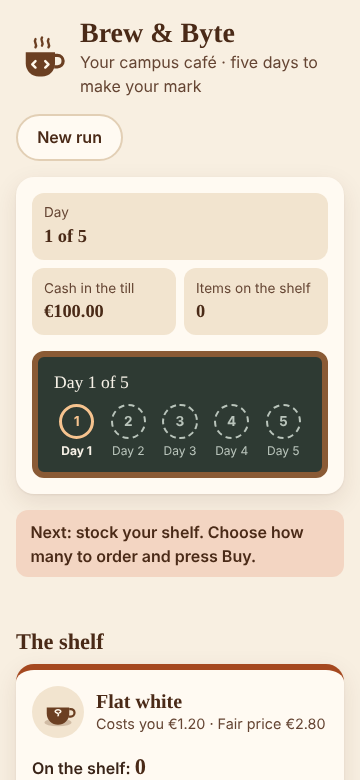
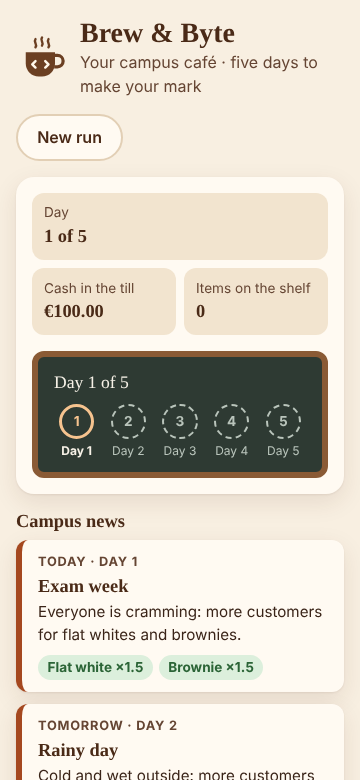
docs(dashboard): explain the results dashboard, refresh screenshots for all features
Documents the dashboard (rules, proposed decisions for Ethan to confirm, the
explainer section, the test map), renumbers the explainer sections, updates the
test counts, and regenerates the README screenshots so they show campus events,
an upgrade, the dashboard and the high scores.

Feature owner: Ethan (built at the team's request; for Ethan to review)

Claude-Session: https://claude.ai/code/session_01TnaFkgAnGYJTaMZ5hbx1Ax

Changed region(s): [[0.0306, 0.6462, 0.9778, 1.0]]

diff --git a/e2e/screenshots.spec.ts b/e2e/screenshots.spec.ts
@@ -5,11 +5,18 @@ import { buy, freshStart, openForTheDay, setPrice } from "./helpers";
 
 const DIR = "docs/screenshots";
 
+/** A fixed week of campus events, so the screenshots always show the same news. */
+const WEEK = ["exam-week", "rainy-day", "ordinary-day", "open-day", "big-match"];
+
 async function playTwoDays(page: Page): Promise<void> {
+  await page.getByRole("button", { name: /^Buy Student Loyalty Program/ }).click();
   await buy(page, "Flat white", 15);
   await buy(page, "Toastie", 8);
   await buy(page, "Brownie", 12);
   await openForTheDay(page, 1);
+  // Restock for tomorrow: a rainy day brings extra toastie customers.
+  await buy(page, "Toastie", 17);
+  await buy(page, "Flat white", 8);
   await setPrice(page, "Flat white", "3.40");
   await openForTheDay(page, 2);
 }
@@ -22,7 +29,7 @@ for (const [label, viewport] of [
     test.use({ viewport });
 
     test(`${label} screenshots`, async ({ page }) => {
-      await freshStart(page);
+      await freshStart(page, WEEK);
       await page.screenshot({ path: `${DIR}/${label}-1-start.png`, fullPage: label === "desktop" });
 
       await playTwoDays(page);
@@ -47,7 +54,7 @@ test.describe("dark", () => {
   test.use({ colorScheme: "dark", viewport: { width: 1280, height: 900 } });
 
   test("dark theme screenshot", async ({ page }) => {
-    await freshStart(page);
+    await freshStart(page, WEEK);
     await playTwoDays(page);
     await page.screenshot({ path: `${DIR}/desktop-5-dark.png`, fullPage: true });
   });

diff --git a/CONTRIBUTIONS.md b/CONTRIBUTIONS.md
@@ -8,8 +8,9 @@ The base game (buying, pricing, trading, saving, the five-day run and its tests)
 
 Each team member proposed, directed, tested and merged one improvement. Viktoria built the upgrades shop on her own branch from her own GitHub account (with help from the Codex AI tool); it was then combined with the other features in the shared Claude Code session. All of the code was built in one shared Claude Code session on Ethan's subscription, the only one the group could afford; each owner typed the requests for their own feature, made its design decisions and checked the result.
 
-| Feature                                                                                                                                | Owner    | Branch                      | Main files                                                                                                                                        |
-| -------------------------------------------------------------------------------------------------------------------------------------- | -------- | --------------------------- | ------------------------------------------------------------------------------------------------------------------------------------------------- |
-| Upgrades shop: loyalty program, go viral and supplier partnership, with exact costs for discounted stock                               | Viktoria | `feature/upgrades-viktoria` | `src/domain/upgrades.ts`, `src/ui/upgradesShop.ts`, `tests/domain/upgrades.test.ts`, `e2e/upgrades.spec.ts`                                       |
-| High scores: the best five finished runs across runs, with dates, an Events/Classic tag, a rank on the final card and a two-step clear | Gina     | `feature/highscores-gina`   | `src/domain/highScores.ts`, `src/storage/scoreStore.ts`, `src/ui/highScoresPanel.ts`, `tests/domain/highScores.test.ts`, `e2e/highscores.spec.ts` |
-| Campus events: a planned week of events that change demand, with a "Campus news" forecast for today and tomorrow                       | Avery    | `feature/events-avery`      | `src/domain/events.ts`, `src/ui/campusNews.ts`, `tests/domain/events.test.ts`, `e2e/events.spec.ts`                                               |
+| Feature                                                                                                                                | Owner                                                                                                                             | Branch                      | Main files                                                                                                                                        |
+| -------------------------------------------------------------------------------------------------------------------------------------- | --------------------------------------------------------------------------------------------------------------------------------- | --------------------------- | ------------------------------------------------------------------------------------------------------------------------------------------------- |
+| Upgrades shop: loyalty program, go viral and supplier partnership, with exact costs for discounted stock                               | Viktoria                                                                                                                          | `feature/upgrades-viktoria` | `src/domain/upgrades.ts`, `src/ui/upgradesShop.ts`, `tests/domain/upgrades.test.ts`, `e2e/upgrades.spec.ts`                                       |
+| High scores: the best five finished runs across runs, with dates, an Events/Classic tag, a rank on the final card and a two-step clear | Gina                                                                                                                              | `feature/highscores-gina`   | `src/domain/highScores.ts`, `src/storage/scoreStore.ts`, `src/ui/highScoresPanel.ts`, `tests/domain/highScores.test.ts`, `e2e/highscores.spec.ts` |
+| Results dashboard: the week so far with headline figures and a gross-profit-by-day chart                                               | Ethan (built in the shared session at the team's request; Ethan to review and confirm the decisions in `docs/DECISIONS.md` 53–59) | `feature/dashboard-ethan`   | `src/domain/stats.ts`, `src/ui/dashboard.ts`, `tests/domain/stats.test.ts`, `e2e/dashboard.spec.ts`                                               |
+| Campus events: a planned week of events that change demand, with a "Campus news" forecast for today and tomorrow                       | Avery                                                                                                                             | `feature/events-avery`      | `src/domain/events.ts`, `src/ui/campusNews.ts`, `tests/domain/events.test.ts`, `e2e/events.spec.ts`                                               |

diff --git a/docs/DECISIONS.md b/docs/DECISIONS.md
@@ -81,6 +81,20 @@ Viktoria designed and built the upgrades shop on her own branch (with help from 
 | 51  | **The supplier rate rounds to the nearest cent, half a cent up** (brownie €0.595 → €0.60).                                                                                                                                                     | Whole cents everywhere, like all other money.                                                                                                                             |
 | 52  | **Saves move to format version 3**, with version 1 and 2 saves upgraded automatically: no upgrades bought, nothing discounted.                                                                                                                 | One clean upgrade step instead of optional fields and special cases.                                                                                                      |
 
+## Results dashboard (feature owner: Ethan)
+
+The dashboard was built in the shared session at the team's request while Ethan was away. These are **proposed** decisions for Ethan to review, confirm or change.
+
+| #   | Decision                                                                                                                                                  | Reason                                                                                                                                   |
+| --- | --------------------------------------------------------------------------------------------------------------------------------------------------------- | ---------------------------------------------------------------------------------------------------------------------------------------- |
+| 53  | **A "Your week so far" panel under the shelf**, filled in from the first traded day.                                                                      | It sits where the player's eyes already are after opening for the day.                                                                   |
+| 54  | **Headline figures:** gross profit so far, spent on upgrades, result so far, best seller and best day.                                                    | They answer "how am I doing, and why?" at a glance.                                                                                      |
+| 55  | **Result so far = gross profit − upgrade spending**, which always equals the overall gain or loss.                                                        | One number that matches the Final results card exactly; a test proves they agree after any sequence of actions.                          |
+| 56  | **A bar chart of each day's gross profit**: up for a profit, down for a loss, each bar labelled with its signed amount, future days shown as empty slots. | Direction and sign carry the meaning, so nobody relies on colour alone.                                                                  |
+| 57  | **Gains in blue and losses in terracotta**, not green and red.                                                                                            | Green and red failed the colour-blindness check (they look the same to many colour-blind people); blue/terracotta passed in both themes. |
+| 58  | **Ties go to the item first on the menu and to the earlier day.**                                                                                         | A simple, predictable rule.                                                                                                              |
+| 59  | **A hidden table repeats the chart's numbers for screen readers.**                                                                                        | The chart is a picture; the table makes the same facts available to everyone.                                                            |
+
 ## Tooling
 
 | Decision                                                                                                                                                                                          | Reason                                                                                                                                    |

diff --git a/docs/TESTING.md b/docs/TESTING.md
@@ -134,13 +134,23 @@ It also runs the `demandCases`, `priceInputCases` and `quantityInputCases` table
 | Version 3 saves round-trip; version 1 and 2 saves upgrade; broken upgrade data is refused          | `tests/storage/saveFormat.test.ts › saves with upgrades`                                                 |
 | The shop on screen, and in a real browser with a reload; no serious accessibility issues           | `app.test.ts › upgrades shop`, `› buying upgrades`; `e2e/upgrades.spec.ts`                               |
 
+## Results dashboard → tests
+
+| What                                                                                                          | Proven by                                                                         |
+| ------------------------------------------------------------------------------------------------------------- | --------------------------------------------------------------------------------- |
+| Totals, best seller, best day and their tie rules                                                             | `tests/domain/stats.test.ts`                                                      |
+| Result so far always equals the final gain or loss                                                            | `stats.test.ts` seeded random test (200 games with events and upgrades)           |
+| Figures, chart bars (up for profit, down for loss), signed labels and the screen-reader table                 | `tests/ui/app.test.ts › results dashboard`                                        |
+| The dashboard through a real run and reload, matching the Final results card; no serious accessibility issues | `e2e/dashboard.spec.ts`                                                           |
+| Chart colours safe for colour blindness, with enough contrast, in both themes                                 | checked with the data-visualisation colour validator (see `docs/DECISIONS.md` 57) |
+
 ## Latest results
 
 Recorded from the final verification run (see the README for how to reproduce).
 
-- **Unit + acceptance:** 17 files, **421 tests passed**, 0 failed.
-- **Coverage:** `src/domain/` **100 %** statements, branches, functions and lines (every file). Overall: 100 % statements, 100 % lines, 100 % functions, 99.0 % branches. The thresholds in `vite.config.ts` fail the run if `src/domain/` drops below 100 % or the total below 90 %.
-- **End-to-end:** **37 tests passed** in headless Chromium against the production build.
+- **Unit + acceptance:** 18 files, **432 tests passed**, 0 failed.
+- **Coverage:** `src/domain/` **100 %** statements, branches, functions and lines (every file). Overall: 100 % statements, 100 % lines, 100 % functions, 98.6 % branches. The thresholds in `vite.config.ts` fail the run if `src/domain/` drops below 100 % or the total below 90 %.
+- **End-to-end:** **40 tests passed** in headless Chromium against the production build.
 - **Lint / format / types:** `eslint --max-warnings 0`, `prettier --check` and `tsc --noEmit` all clean.
 
 The few uncovered branches outside the domain are defensive fallbacks that cannot happen through normal use: `main.ts` when the page has no `#app` element, an unexpected (non-`SaveShapeError`) error while decoding a save, and the `?? productId` name fallback in two Shop messages (the product is always found once the rules have accepted the action).

diff --git a/README.md b/README.md
@@ -22,7 +22,7 @@ More screenshots: [start](docs/screenshots/desktop-1-start.png) · [final result
 4. Check **How customers decide**: at or below the fair price, 10 customers come; up to twice it, 5; above that, nobody.
 5. Read the **Campus news**: events like exam week or a rainy day bring more (×1.5) or fewer (×0.5) customers for some items. You can see tomorrow's event too, so stock up a day early. Untick "Include campus events" in **New run** for a classic week.
 6. Visit the **Upgrades Shop** if you like: a loyalty program (+2 customers a day), going viral (+5 for a day) or a supplier deal (15% off stock). Each costs money, so it has to pay for itself.
-7. Press **Open for the day**. You sell the smaller of demand and your stock. Leftovers stay on the shelf.
+7. Press **Open for the day**. You sell the smaller of demand and your stock. Leftovers stay on the shelf. **Your week so far** then shows your profit by day, your best seller and your result so far.
 8. Repeat until day 5, then read your **Final results**. Your best five runs go on the **High scores** board, with the date. **New run** starts over (after asking) and keeps your high scores.
 
 | Item       | Unit cost | Fair (reference) price |
@@ -69,7 +69,7 @@ npx playwright install --with-deps chromium
 npm run test:e2e
 ```
 
-What a pass looks like: `npm test` ends with `Tests 299 passed (299)` and a coverage table with no `ERROR` lines, and `npm run test:e2e` ends with `22 passed`. `npm run screenshots` regenerates the images in `docs/screenshots/`.
+What a pass looks like: `npm test` ends with `Tests 432 passed (432)` and a coverage table with no `ERROR` lines, and `npm run test:e2e` ends with `40 passed`. `npm run screenshots` regenerates the images in `docs/screenshots/`.
 
 CI (GitHub Actions, [`.github/workflows/ci.yml`](.github/workflows/ci.yml)) runs all of these on every push and pull request, on Node 20 and 22.
 

diff --git a/spec/RULES.md b/spec/RULES.md
@@ -93,6 +93,11 @@ The comparison is done exactly in cents. With a €4.00 reference: €4.00 → 1
 - **Supplier rate:** unit cost × 85%, rounded to the nearest cent (half a cent up). Units bought at the supplier rate are tracked; older full-price units sell first. Cost of goods sold and leftover stock use what each unit really cost.
 - **Upgrades are spending.** They reduce cash and therefore the overall gain or loss.
 
+## Results dashboard
+
+- From the first traded day, **Your week so far** shows: gross profit so far, money spent on upgrades, the **result so far** (gross profit − upgrade spending, the same as the overall gain or loss), the best-selling item and the best day.
+- A bar chart shows **each day's gross profit**: bars go up for a profit and down for a loss, each labelled with its amount.
+
 ## High scores
 
 - When day 5 is traded, the run's **overall gain or loss** becomes its score.
